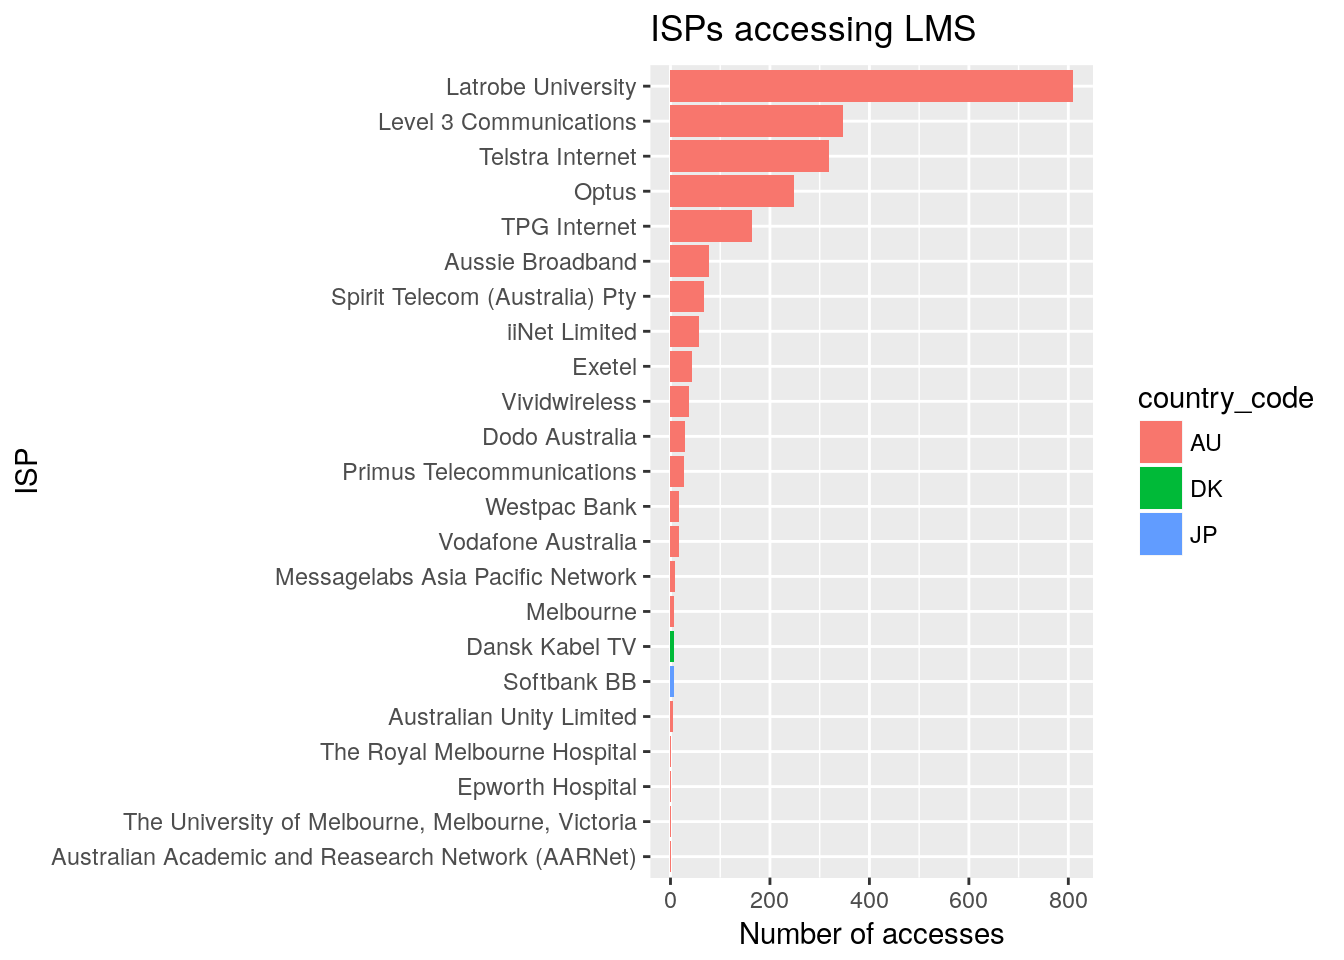
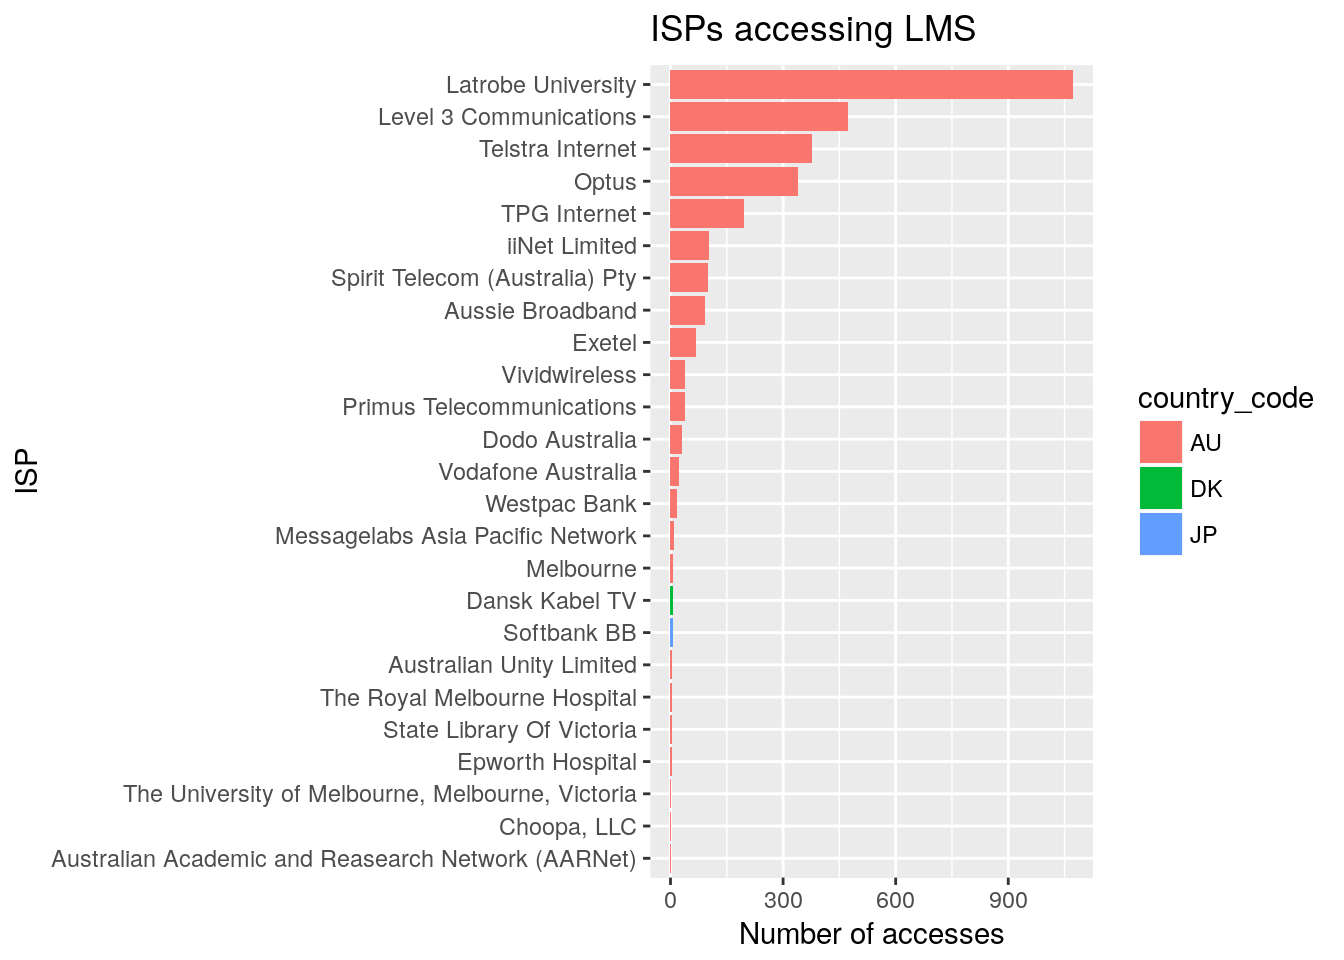
Build site.

diff --git a/docs/processIHBLogs.html b/docs/processIHBLogs.html
@@ -12,7 +12,7 @@
 <meta name="author" content="Dennis Wollersheim" />
 
 
-<title>new document</title>
+<title>2018-HIM3HIB / HIM5IHB Stats and grades</title>
 
 <script src="site_libs/jquery-1.11.3/jquery.min.js"></script>
 <meta name="viewport" content="width=device-width, initial-scale=1" />
@@ -315,14 +315,14 @@ div.section {
 
 
 
-<h1 class="title toc-ignore">new document</h1>
+<h1 class="title toc-ignore">2018-HIM3HIB / HIM5IHB Stats and grades</h1>
 <h4 class="author"><em>Dennis Wollersheim</em></h4>
 <h4 class="date"><em>16.06.2018</em></h4>
 
 </div>
 
 
-<p><strong>Last updated:</strong> 2018-08-09</p>
+<p><strong>Last updated:</strong> 2018-08-16</p>
 <strong>workflowr checks:</strong> <small>(Click a bullet for more information)</small>
 <ul>
 <li>
@@ -346,13 +346,15 @@ div.section {
 </details>
 </li>
 <li>
-<p><details> <summary> <strong style="color:blue;">✔</strong> <strong>Repository version:</strong> <a href="https://github.com/dewoller/LMS_reports/tree/11516bff233c9e3e28604b1f32661f719e342a0f" target="_blank">11516bf</a> </summary></p>
+<p><details> <summary> <strong style="color:blue;">✔</strong> <strong>Repository version:</strong> <a href="https://github.com/dewoller/LMS_reports/tree/05fdbc31369e1dae6fcc1148392f9631989d5520" target="_blank">05fdbc3</a> </summary></p>
 Great! You are using Git for version control. Tracking code development and connecting the code version to the results is critical for reproducibility. The version displayed above was the version of the Git repository at the time these results were generated. <br><br> Note that you need to be careful to ensure that all relevant files for the analysis have been committed to Git prior to generating the results (you can use <code>wflow_publish</code> or <code>wflow_git_commit</code>). workflowr only checks the R Markdown file, but you know if there are other scripts or data files that it depends on. Below is the status of the Git repository when the results were generated:
 <pre><code>
 Ignored files:
-    Ignored:    analysis/figure/
-    Ignored:    docs/figure/
     Ignored:    logs/
+
+Unstaged changes:
+    Modified:   data/ip_locations.csv
+    Modified:   lib/functions.R
 
 </code></pre>
 Note that any generated files, e.g. HTML, png, CSS, etc., are not included in this status report because it is ok for generated content to have uncommitted changes. </details>
@@ -381,6 +383,40 @@ Message
 </tr>
 </thead>
 <tbody>
+<tr>
+<td style="text-align:left;">
+Rmd
+</td>
+<td style="text-align:left;">
+<a href="https://github.com/dewoller/LMS_reports/blob/05fdbc31369e1dae6fcc1148392f9631989d5520/analysis/processIHBLogs.Rmd" target="_blank">05fdbc3</a>
+</td>
+<td style="text-align:left;">
+Dennis Wollersheim
+</td>
+<td style="text-align:left;">
+2018-08-16
+</td>
+<td style="text-align:left;">
+wflow_publish(“analysis/processIHBLogs.Rmd”)
+</td>
+</tr>
+<tr>
+<td style="text-align:left;">
+html
+</td>
+<td style="text-align:left;">
+<a href="https://cdn.rawgit.com/dewoller/LMS_reports/75bdb1ac6f9aee5c8b48b24c4829f36fac05e5f9/docs/processIHBLogs.html" target="_blank">75bdb1a</a>
+</td>
+<td style="text-align:left;">
+Dennis Wollersheim
+</td>
+<td style="text-align:left;">
+2018-08-09
+</td>
+<td style="text-align:left;">
+Build site.
+</td>
+</tr>
 <tr>
 <td style="text-align:left;">
 Rmd
@@ -437,15 +473,108 @@ wflow_publish(“analysis/processIHBLogs.Rmd”)
 </ul>
 <p></details></p>
 <hr />
-<div id="marks-for-the-class-logs_2018-him3hibbu-2him5ihbbu-2_20180809-1254.csv-for-the-period-2018-07-16-2018-08-09-overall-lms-participation-by-student" class="section level1">
-<h1>Marks for the class logs_2018-HIM3HIB(BU-2)HIM5IHB(BU-2)_20180809-1254.csv For the period : 2018-07-16, 2018-08-09 — ## Overall LMS participation by student</h1>
-<p><img src="figure/processIHBLogs.Rmd/introduction-1.png" width="672" style="display: block; margin: auto;" /><img src="figure/processIHBLogs.Rmd/introduction-2.png" width="672" style="display: block; margin: auto;" /></p>
+<div id="marks-for-the-class-logs_2018-him3hibbu-2him5ihbbu-2_20180816-1024.csv-for-the-period-2018-07-16-2018-08-16-overall-lms-participation-by-student" class="section level1">
+<h1>Marks for the class logs_2018-HIM3HIB(BU-2)HIM5IHB(BU-2)_20180816-1024.csv For the period : 2018-07-16, 2018-08-16 — ## Overall LMS participation by student</h1>
+<div id="summary-lms-participation-by-student" class="section level2">
+<h2>## Summary LMS participation by student</h2>
+<p><img src="figure/processIHBLogs.Rmd/Summary_by_student_last_digit-1.png" width="672" style="display: block; margin: auto;" /><img src="figure/processIHBLogs.Rmd/Summary_by_student_last_digit-2.png" width="672" style="display: block; margin: auto;" /></p>
+</div>
 </div>
 <div id="access-to-each-component-over-the-semester" class="section level1">
 <h1>access to each component over the semester</h1>
 <p><img src="figure/processIHBLogs.Rmd/unnamed-chunk-1-1.png" width="672" style="display: block; margin: auto;" /></p>
+<details> <summary><em>Expand here to see past versions of unnamed-chunk-1-1.png:</em></summary>
+<table style="border-collapse:separate; border-spacing:5px;">
+<thead>
+<tr>
+<th style="text-align:left;">
+Version
+</th>
+<th style="text-align:left;">
+Author
+</th>
+<th style="text-align:left;">
+Date
+</th>
+</tr>
+</thead>
+<tbody>
+<tr>
+<td style="text-align:left;">
+<a href="https://github.com/dewoller/LMS_reports/blob/75bdb1ac6f9aee5c8b48b24c4829f36fac05e5f9/docs/figure/processIHBLogs.Rmd/unnamed-chunk-1-1.png" target="_blank">75bdb1a</a>
+</td>
+<td style="text-align:left;">
+Dennis Wollersheim
+</td>
+<td style="text-align:left;">
+2018-08-09
+</td>
+</tr>
+</tbody>
+</table>
+<p></details></p>
 <p>LMS accesses in Victoria, off campus</p>
-<p><img src="figure/processIHBLogs.Rmd/unnamed-chunk-2-1.png" width="672" style="display: block; margin: auto;" /><img src="figure/processIHBLogs.Rmd/unnamed-chunk-2-2.png" width="672" style="display: block; margin: auto;" /></p>
+<p><img src="figure/processIHBLogs.Rmd/unnamed-chunk-2-1.png" width="672" style="display: block; margin: auto;" /></p>
+<details> <summary><em>Expand here to see past versions of unnamed-chunk-2-1.png:</em></summary>
+<table style="border-collapse:separate; border-spacing:5px;">
+<thead>
+<tr>
+<th style="text-align:left;">
+Version
+</th>
+<th style="text-align:left;">
+Author
+</th>
+<th style="text-align:left;">
+Date
+</th>
+</tr>
+</thead>
+<tbody>
+<tr>
+<td style="text-align:left;">
+<a href="https://github.com/dewoller/LMS_reports/blob/75bdb1ac6f9aee5c8b48b24c4829f36fac05e5f9/docs/figure/processIHBLogs.Rmd/unnamed-chunk-2-1.png" target="_blank">75bdb1a</a>
+</td>
+<td style="text-align:left;">
+Dennis Wollersheim
+</td>
+<td style="text-align:left;">
+2018-08-09
+</td>
+</tr>
+</tbody>
+</table>
+<p></details> <img src="figure/processIHBLogs.Rmd/unnamed-chunk-2-2.png" width="672" style="display: block; margin: auto;" /></p>
+<details> <summary><em>Expand here to see past versions of unnamed-chunk-2-2.png:</em></summary>
+<table style="border-collapse:separate; border-spacing:5px;">
+<thead>
+<tr>
+<th style="text-align:left;">
+Version
+</th>
+<th style="text-align:left;">
+Author
+</th>
+<th style="text-align:left;">
+Date
+</th>
+</tr>
+</thead>
+<tbody>
+<tr>
+<td style="text-align:left;">
+<a href="https://github.com/dewoller/LMS_reports/blob/75bdb1ac6f9aee5c8b48b24c4829f36fac05e5f9/docs/figure/processIHBLogs.Rmd/unnamed-chunk-2-2.png" target="_blank">75bdb1a</a>
+</td>
+<td style="text-align:left;">
+Dennis Wollersheim
+</td>
+<td style="text-align:left;">
+2018-08-09
+</td>
+</tr>
+</tbody>
+</table>
+<p></details></p>
 </div>
 <div id="non-bundoora-melbourne-latrobe-cities" class="section level1">
 <h1>non bundoora / melbourne / latrobe cities</h1>
@@ -453,14 +582,104 @@ wflow_publish(“analysis/processIHBLogs.Rmd”)
 <div id="which-isps" class="section level1">
 <h1>which ISP’s</h1>
 <p><img src="figure/processIHBLogs.Rmd/unnamed-chunk-4-1.png" width="672" style="display: block; margin: auto;" /></p>
+<details> <summary><em>Expand here to see past versions of unnamed-chunk-4-1.png:</em></summary>
+<table style="border-collapse:separate; border-spacing:5px;">
+<thead>
+<tr>
+<th style="text-align:left;">
+Version
+</th>
+<th style="text-align:left;">
+Author
+</th>
+<th style="text-align:left;">
+Date
+</th>
+</tr>
+</thead>
+<tbody>
+<tr>
+<td style="text-align:left;">
+<a href="https://github.com/dewoller/LMS_reports/blob/75bdb1ac6f9aee5c8b48b24c4829f36fac05e5f9/docs/figure/processIHBLogs.Rmd/unnamed-chunk-4-1.png" target="_blank">75bdb1a</a>
+</td>
+<td style="text-align:left;">
+Dennis Wollersheim
+</td>
+<td style="text-align:left;">
+2018-08-09
+</td>
+</tr>
+</tbody>
+</table>
+<p></details></p>
 </div>
 <div id="lms-accesses-from-inside-victoria" class="section level1">
 <h1>LMS accesses from inside Victoria</h1>
 <p><img src="figure/processIHBLogs.Rmd/unnamed-chunk-5-1.png" width="672" style="display: block; margin: auto;" /></p>
+<details> <summary><em>Expand here to see past versions of unnamed-chunk-5-1.png:</em></summary>
+<table style="border-collapse:separate; border-spacing:5px;">
+<thead>
+<tr>
+<th style="text-align:left;">
+Version
+</th>
+<th style="text-align:left;">
+Author
+</th>
+<th style="text-align:left;">
+Date
+</th>
+</tr>
+</thead>
+<tbody>
+<tr>
+<td style="text-align:left;">
+<a href="https://github.com/dewoller/LMS_reports/blob/75bdb1ac6f9aee5c8b48b24c4829f36fac05e5f9/docs/figure/processIHBLogs.Rmd/unnamed-chunk-5-1.png" target="_blank">75bdb1a</a>
+</td>
+<td style="text-align:left;">
+Dennis Wollersheim
+</td>
+<td style="text-align:left;">
+2018-08-09
+</td>
+</tr>
+</tbody>
+</table>
+<p></details></p>
 </div>
 <div id="lms-accesses-from-outside-the-australia" class="section level1">
 <h1>LMS accesses from outside the Australia</h1>
 <p><img src="figure/processIHBLogs.Rmd/unnamed-chunk-6-1.png" width="672" style="display: block; margin: auto;" /></p>
+<details> <summary><em>Expand here to see past versions of unnamed-chunk-6-1.png:</em></summary>
+<table style="border-collapse:separate; border-spacing:5px;">
+<thead>
+<tr>
+<th style="text-align:left;">
+Version
+</th>
+<th style="text-align:left;">
+Author
+</th>
+<th style="text-align:left;">
+Date
+</th>
+</tr>
+</thead>
+<tbody>
+<tr>
+<td style="text-align:left;">
+<a href="https://github.com/dewoller/LMS_reports/blob/75bdb1ac6f9aee5c8b48b24c4829f36fac05e5f9/docs/figure/processIHBLogs.Rmd/unnamed-chunk-6-1.png" target="_blank">75bdb1a</a>
+</td>
+<td style="text-align:left;">
+Dennis Wollersheim
+</td>
+<td style="text-align:left;">
+2018-08-09
+</td>
+</tr>
+</tbody>
+</table>
+<p></details></p>
 <pre><code>R version 3.4.4 (2018-03-15)
 Platform: x86_64-pc-linux-gnu (64-bit)
 Running under: Ubuntu 17.10
@@ -486,7 +705,7 @@ other attached packages:
  [9] tidyr_0.8.1      tibble_1.4.2     ggplot2_2.2.1    tidyverse_1.2.1 
 [13] tmaptools_2.0    tmap_2.0         lubridate_1.7.4  rgeolocate_1.0.1
 [17] magrittr_1.5     sp_1.3-1         knitr_1.20       workflowr_1.1.1 
-[21] nvimcom_0.9-72  
+[21] nvimcom_0.9-75  
 
 loaded via a namespace (and not attached):
  [1] nlme_3.1-137       satellite_1.0.1    webshot_0.5.0     
